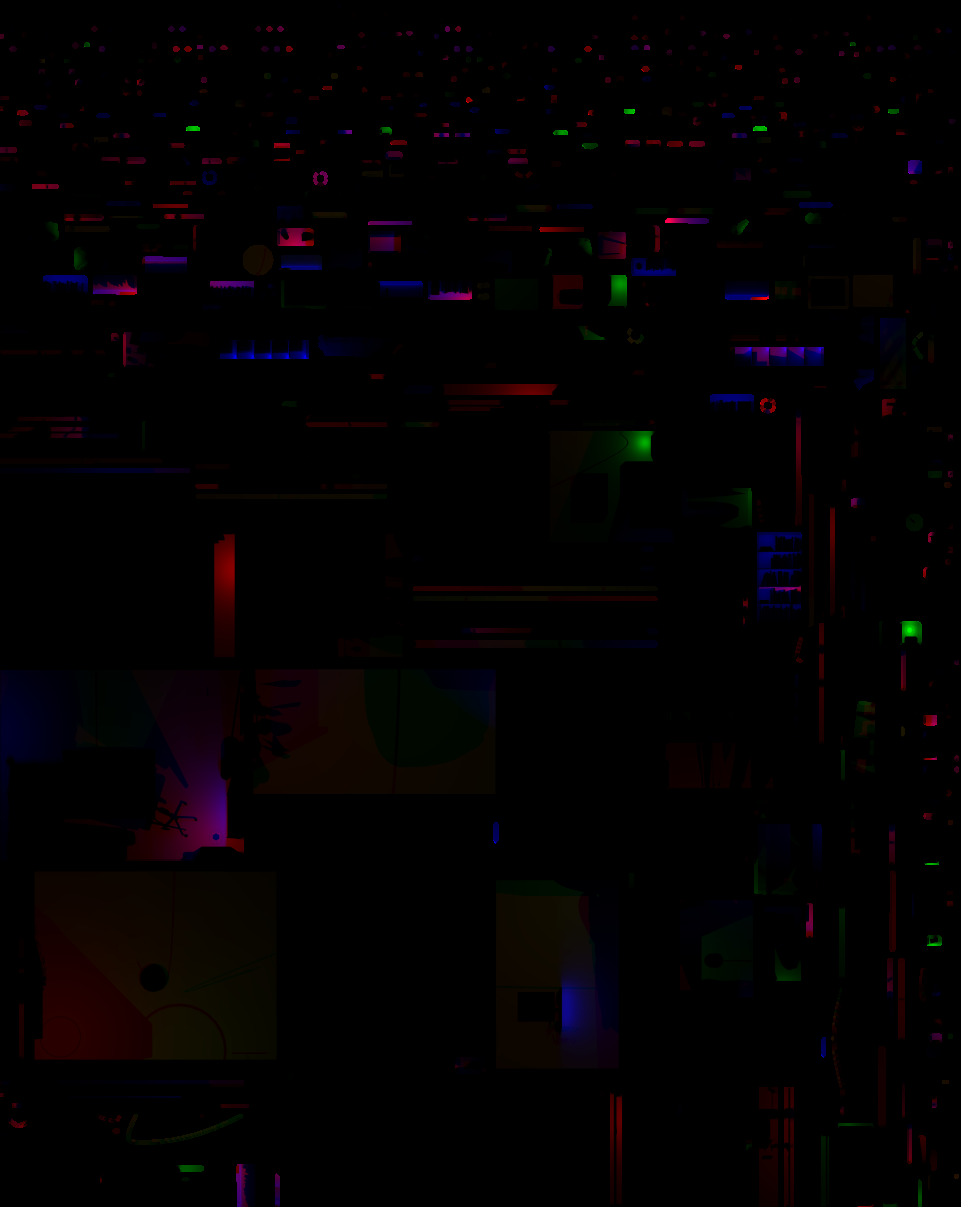
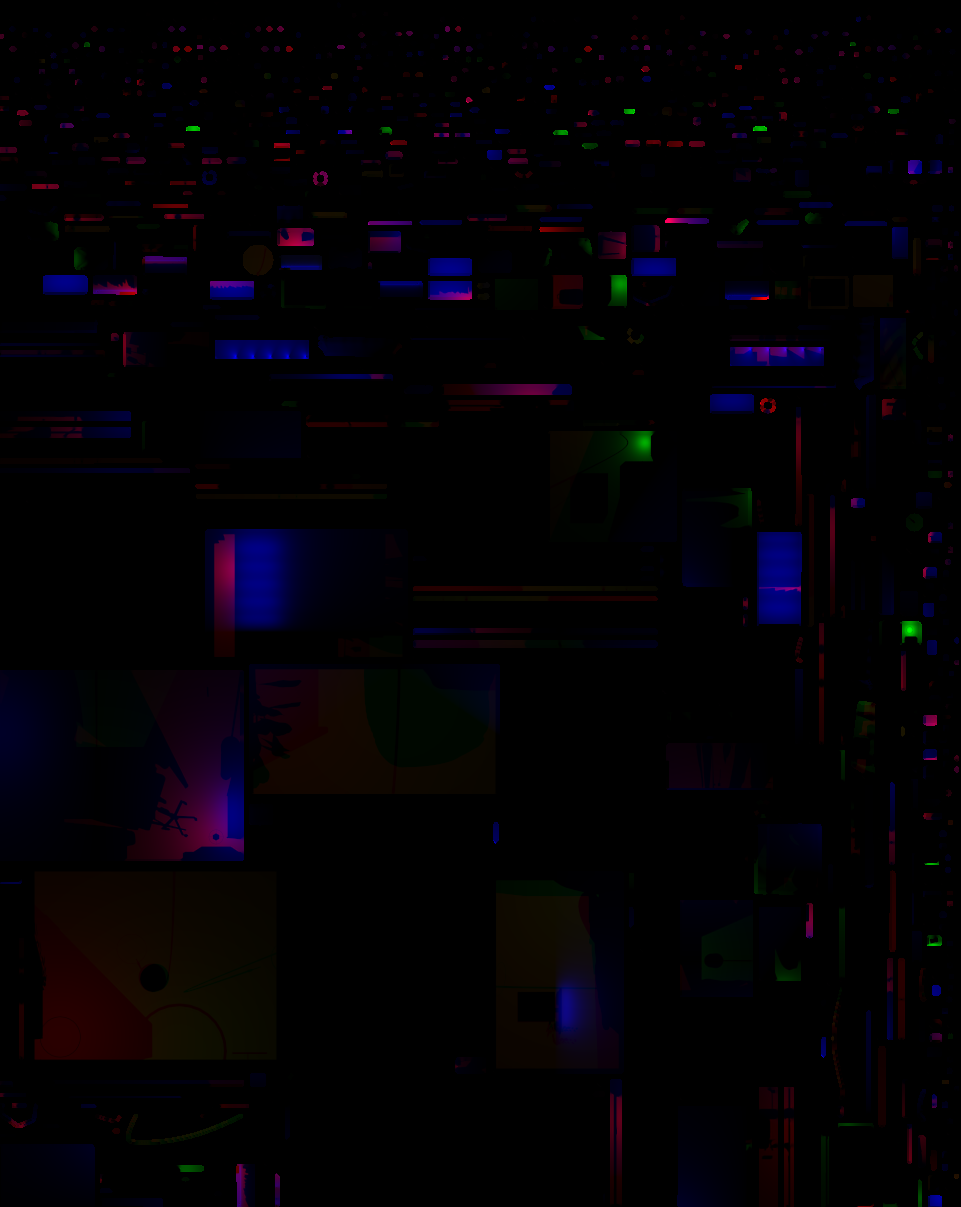
feat(light): Low's baked area lights cast no shadow, as High's live
The direct bake of an area light is unshadowed (RectAreaLight has none).
Monitor wash L 0.043 to 0.054 (High 0.061); under-desk 0.012 to 0.023.

diff --git a/tools/bake/bake.py b/tools/bake/bake.py
@@ -215,8 +215,12 @@ def calibrate():
     return cal
 
 
-def lamp(g, k, l, cal):
-    """One of the game's lights as a Blender light of the same power: a point's or a spot's intensity (per m²), an area's radiance."""
+def lamp(g, k, l, cal, live=False):
+    """One of the game's lights as a Blender light of the same power: a point's or a spot's intensity (per m²), an area's radiance.
+
+    `live`: the light stands in for the game's own (a `direct` group). The game's area light casts no shadow, so this one casts none: the
+    monitor's bias light, behind its housing, gave the wall a fifth of what High's live light gives it.
+    """
     rot = Matrix.Identity(3)
     if l['kind'] == 'spot':
         rot = Vector(l['dir']).to_track_quat('-Z', 'Y').to_matrix()
@@ -236,6 +240,10 @@ def lamp(g, k, l, cal):
     else:
         d.shape, d.size, d.size_y = 'RECTANGLE', l['w'], l['h']
         d.energy = l['power'] * l['w'] * l['h'] / cal['area']
+        if live:
+            d.use_shadow = False
+            if hasattr(d, 'cycles') and hasattr(d.cycles, 'cast_shadow'):
+                d.cycles.cast_shadow = False
     return ob
 
 
@@ -376,7 +384,7 @@ def main():
     lights = {}
     for g in CFG['groups']:
         if g['kind'] in ('lamp', 'direct'):
-            lights[g['id']] =[lamp(g['id'], k, l, cal) for k, l in enumerate(g['lights'])]
+            lights[g['id']] = [lamp(g['id'], k, l, cal, g['kind'] == 'direct') for k, l in enumerate(g['lights'])]
         elif g['kind'] == 'sun':
             ob = light('sun', g['id'], (0, 0, 5), Vector(g['dir']).to_track_quat('Z', 'Y').to_matrix())
             ob.data.energy, ob.data.angle = 1 / cal['sun'], math.radians(0.53)

diff --git a/src/features/room/light.md b/src/features/room/light.md
@@ -103,7 +103,7 @@ The 4K room is CPU-bound: about 2,000 draws each upload the uniforms of every li
 - **The cap counts all the room's lights**, the window's `key` and `sun` included (every id in `LIGHT_ORDER`, 15 ids; the machine's own lights are not in it). `LIGHT_ORDER` gives the order and the reason for each place. Cap 4: the window, the arc lamp, the desk lamp. Cap 8: also the two lanterns and the sconce's two spots.
 - **The choice depends on the cap alone**, not on the hour or a switch. A lamp that is off keeps its place, so the count of lights (and each lit program) holds through the evening. Programs link again only when the option changes.
 - **A capped lamp** leaves the scene (`visible = false`). Its fixture still glows and the frame still sets its level. Its baked bounce stays, and the bake's direct light of its group is added to the light map (`LightmapMix.mix`, `direct`), so its pool on the still meshes holds, with its baked shadows. What moves (the machine, the chair) does not get that pool.
-- **The direct maps**: `npm run bake` bakes the direct light of each lamp group that a cap can remove (all but `arc` and `desk`), packs three groups a file (`direct-<n>.png`, one channel a group, the square root of the light; `packDirect` in `tools/bake/rgbm.ts`) and lists them in the manifest (`direct`). The game loads them only when a lamp cap is set (`loadDirect`). A bake with no direct maps falls back to the old lift: the bounce `CAPPED_BOUNCE` (2.5) times over.
+- **The direct maps**: `npm run bake` bakes the direct light of each lamp group that a cap can remove (all but `arc` and `desk`), packs three groups a file (`direct-<n>.png`, one channel a group, the square root of the light; `packDirect` in `tools/bake/rgbm.ts`) and lists them in the manifest (`direct`). The game loads them only when a lamp cap is set (`loadDirect`). A bake with no direct maps falls back to the old lift: the bounce `CAPPED_BOUNCE` (2.5) times over. In a direct group an area light casts no shadow (`lamp(..., live)` in `tools/bake/bake.py`), as the game's `RectAreaLight` casts none: the map then gives Low the pool High draws live. Point and spot lights keep their baked shadows.
 - **The books** are instances with no light map. With the strips capped they take their shelf's strip as one line light in closed form (`stripLit` in `furniture3d.ts`; the room sets `STRIP_STAND_IN` each frame, black while the strips are real lights). At 23:00 the books read L 0.037 at Low against 0.045 at High (0.011 before).
 - **The monitor's bias light** stands behind the housing (40 mm behind the panel's back), not inside it: the bake's lights cast shadows, and a strip inside the housing baked no light on the wall.
 - **`lightShadows` off**: the lamps cast no shadow and their maps are freed. The window's shadows follow `shadows` alone.
